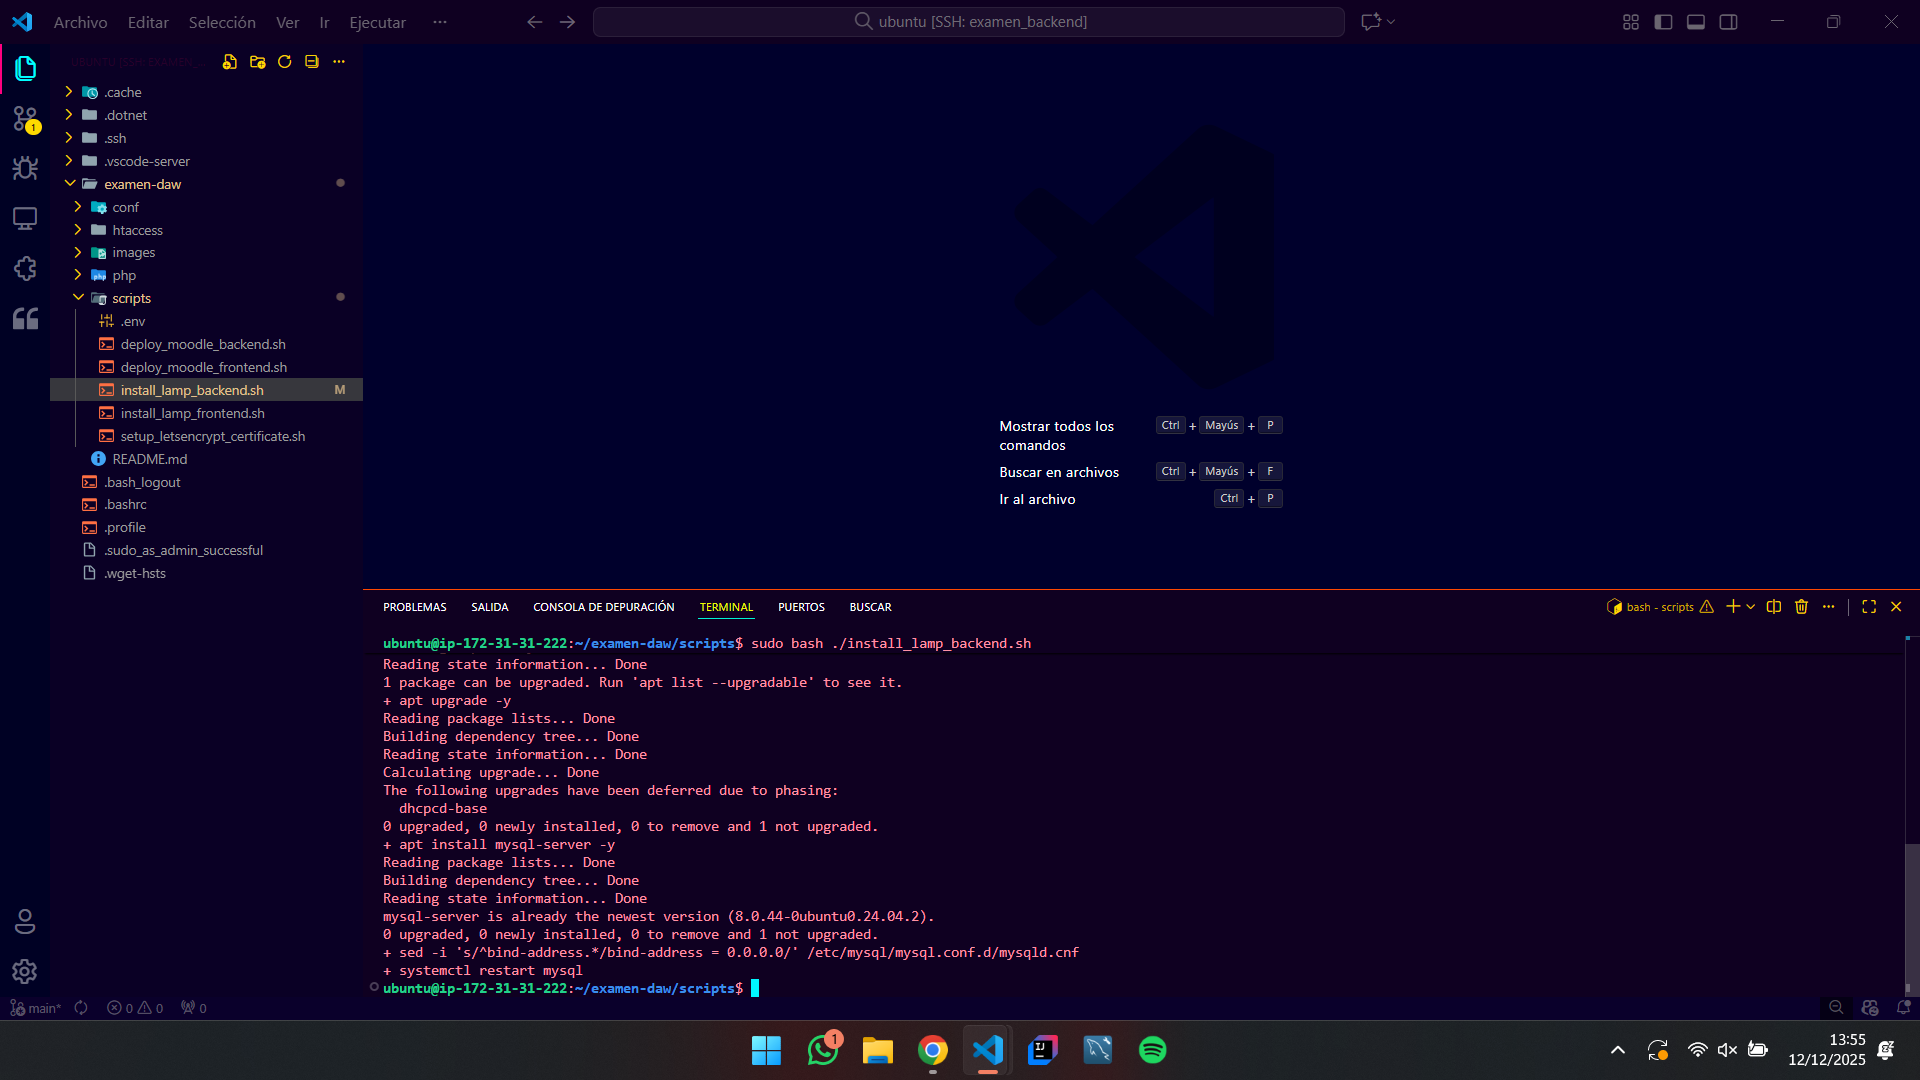
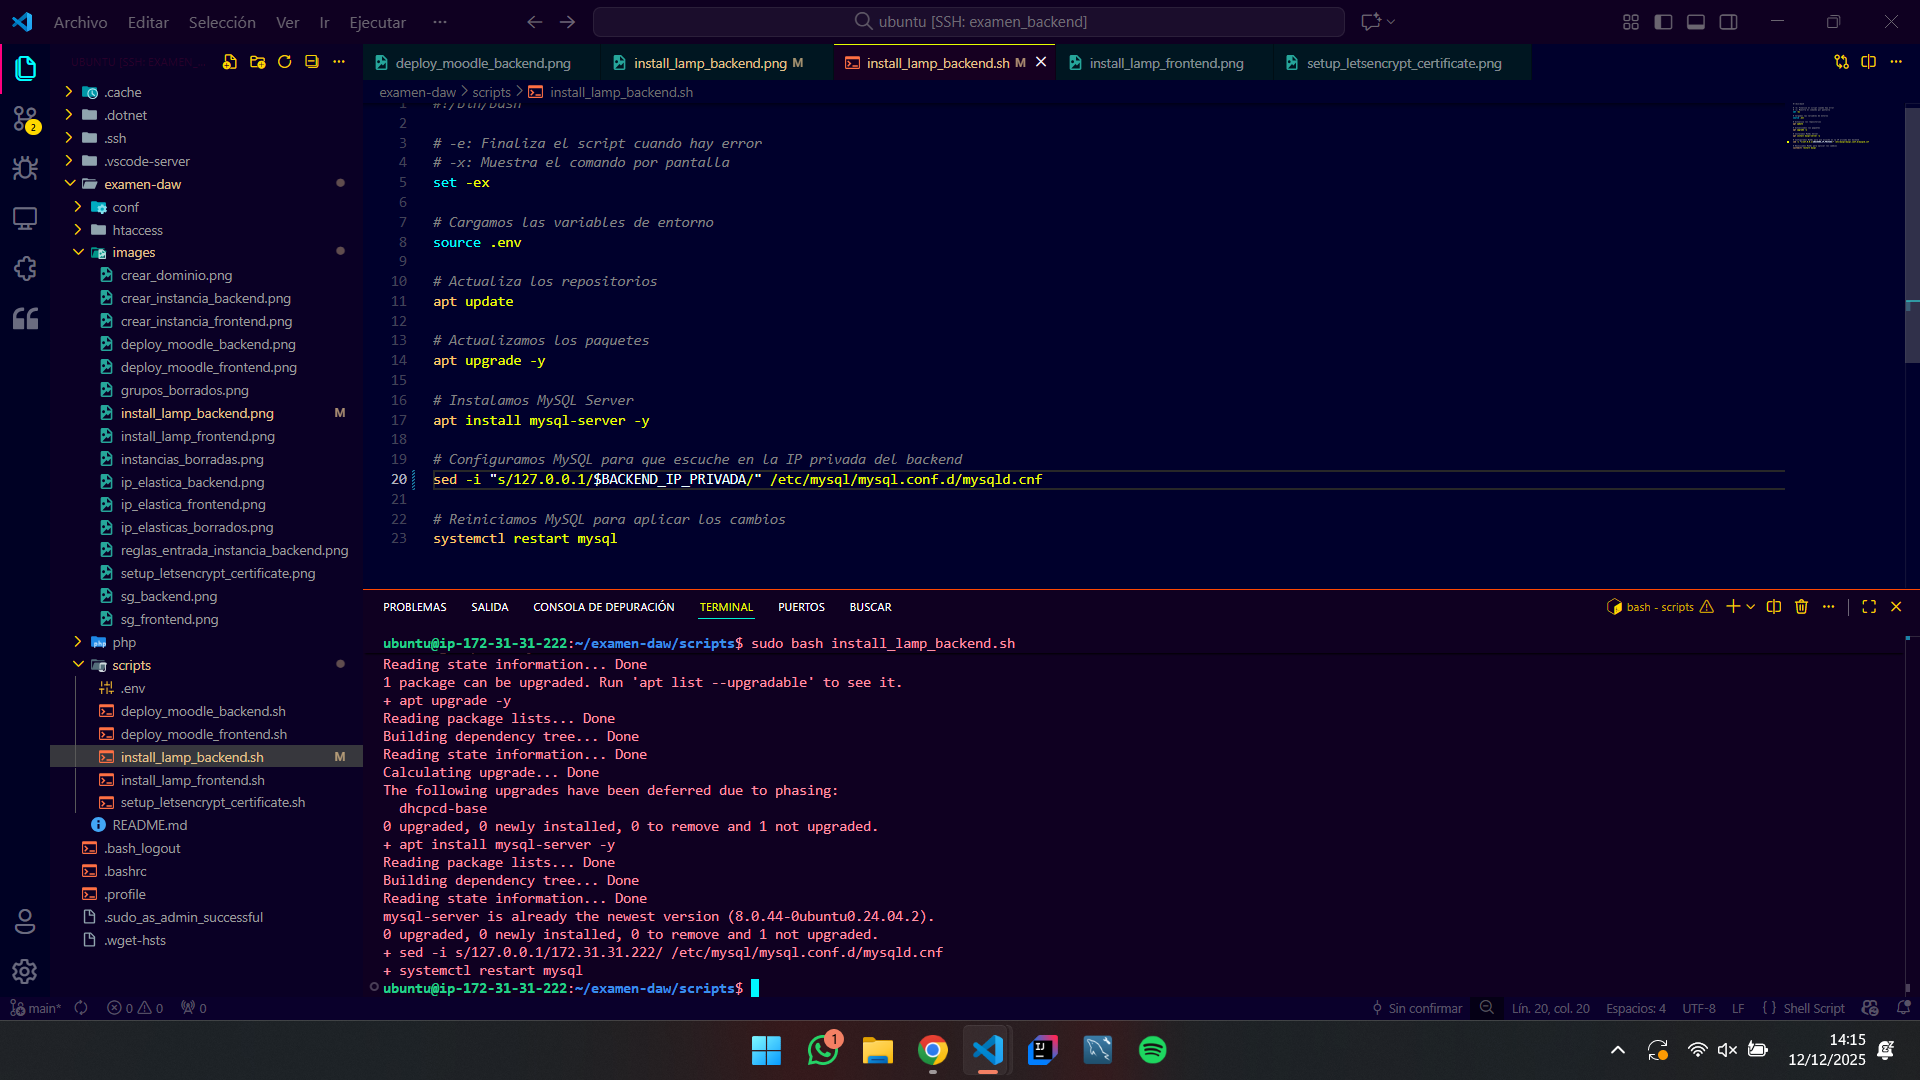
Terminamos el examen

diff --git a/README.md b/README.md
@@ -1,2 +1,37 @@
-# examen-daw
-Examen de DAW
+# Examen de DAW
+
+### Instancias Borradas
+![Instancias Borradas](images/instancias_borradas.png)
+
+### IP Elasticas Borradas
+![IP Elasticas Borradas](images/ip_elasticas_borrados.png)
+
+### Grupos de Seguridad Borrados
+![Grupos de Seguridad Borrados](images/grupos_borrados.png)
+
+### SG_BACKEND
+![SG_BACKEND](images/sg_backend.png)
+
+### SG_FRONTEND
+![SG_FRONTEND](images/sg_frontend.png)
+
+## Creación del Dominio
+![Creación del Dominio](images/crear_dominio.png)
+
+### Install_Lamp_Backend
+![Install_Lamp_Backend](images/install_lamp_backend.png)
+
+### Deploy_Moodle_Backend
+![Deploy_Moodle_Backend](images/deploy_moodle_backend.png)
+
+### Install_Lamp_Frontend
+![Install_Lamp_Frontend](images/install_lamp_frontend.png)
+
+### SetUp_Letsencrypt_Certificate
+![Set](images/setup_letsencrypt_certificate.png)
+
+### Deploy_Moodle_Frontend
+![Deploy_Moodle_Frontend](images/deploy_moodle_frontend.png)
+
+### Certificado
+![Certificado](images/certificado.png)
